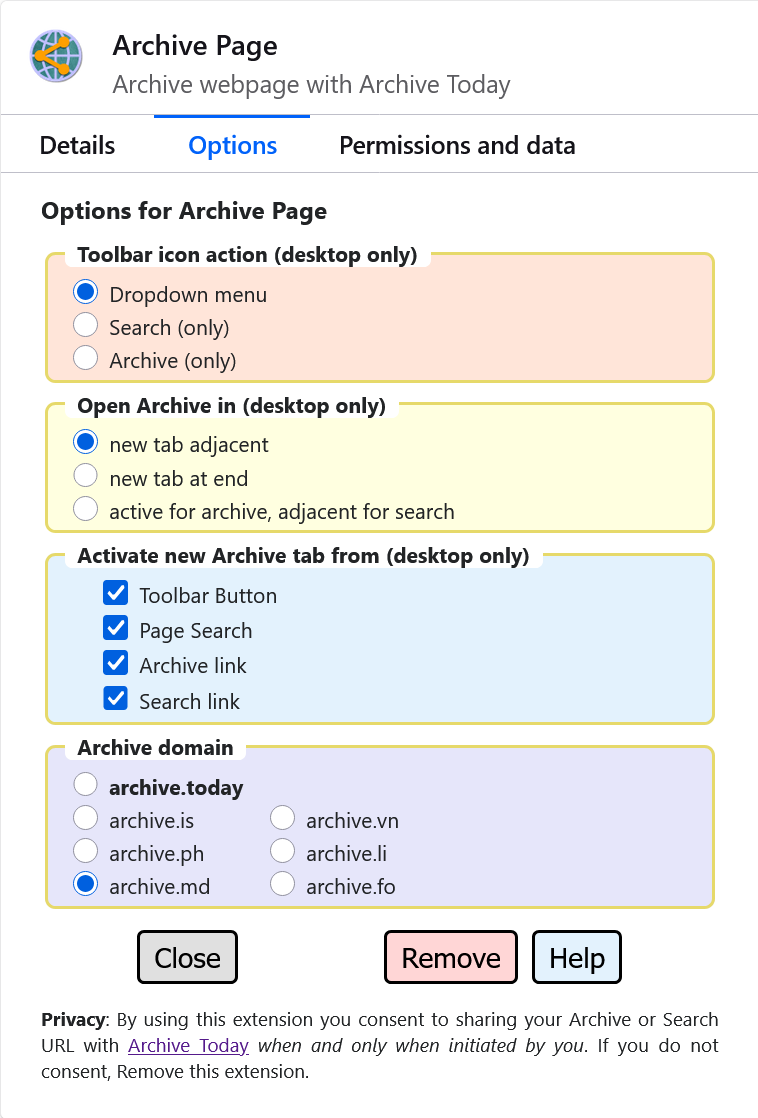
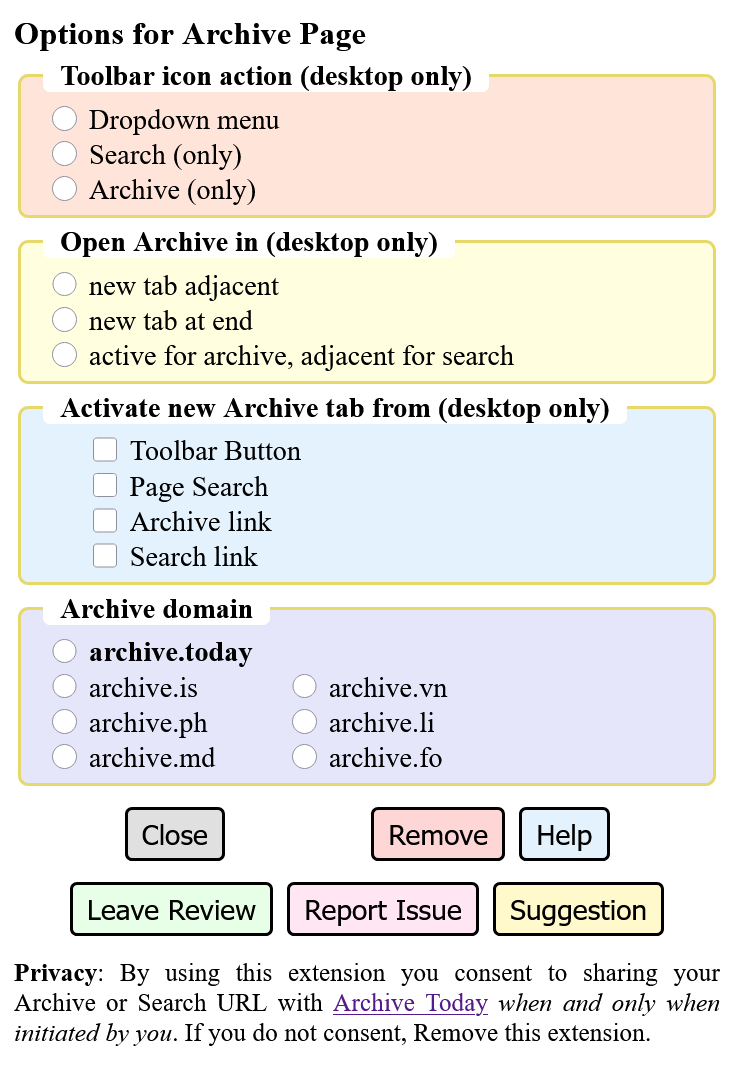
v1.6.3 (Firefox)
Improve options screen

diff --git a/Firefox/options.js b/Firefox/options.js
@@ -1,7 +1,7 @@
 /*
-    options.js - Archive Page Extension Options Logic
-    Handles auto-saving, default values, and tab management.
-    © 2026 John Navas, All Rights Reserved
+  options.js - Archive Page Extension Options Logic
+  Handles auto-saving, default values, and tab management.
+  © 2026 John Navas, All Rights Reserved
 */
 
 const browserAPI = (typeof browser !== "undefined") ? browser : chrome;
@@ -30,10 +30,8 @@ async function restoreOptions() {
     cbArchiveNew: true,
     cbSearchNew: true
   });
-
   const info = await browserAPI.runtime.getPlatformInfo();
   const isAndroid = info.os === "android";
-
   if (isAndroid) {
     ['sectionToolbarAction', 'sectionOpenIn', 'sectionActivate'].forEach(id => {
       const s = document.getElementById(id);
@@ -43,20 +41,17 @@ async function restoreOptions() {
       }
     });
   }
-
   // Restore Checkboxes
   MAP.cb.forEach(c => {
     const e = document.getElementById(c.i);
     if (e) e.checked = items[c.k];
   });
-
   // Restore Radio Buttons
   MAP.rd.forEach(r => {
     if (isAndroid && r.k === 'toolbarAction') return;
     const e = document.querySelector(`input[name="${r.n}"][value="${items[r.k]}"]`);
     if (e) e.checked = true;
   });
-
   // Restore Tab Control
   const tId = Object.keys(MAP.tab).find(k => MAP.tab[k] === items.tabCtl);
   if (tId) document.getElementById(tId).checked = true;
@@ -68,7 +63,6 @@ async function saveOptions() {
   MAP.rd.forEach(r => { const e = document.querySelector(`input[name="${r.n}"]:checked`); if (e && !e.disabled) s[r.k] = e.value; });
   const t = document.querySelector('input[name="tabCtl"]:checked');
   if (t && !t.disabled) s.tabCtl = MAP.tab[t.id] || 'adjacent';
-
   await browserAPI.storage.local.set(s);
   const st = document.getElementById('status');
   st.textContent = 'Saved';
@@ -78,22 +72,53 @@ async function saveOptions() {
 document.addEventListener('DOMContentLoaded', async () => {
   await restoreOptions();
 
+  // Platform Detection for Buttons
+  const info = await browserAPI.runtime.getPlatformInfo();
+  const isAndroid = info.os === "android";
+
+  function openUrlFirefox(url) {
+    if (isAndroid) {
+      window.open(url, "_blank");
+    } else {
+      browserAPI.tabs.create({ url });
+    }
+  }
+
+  function closeWindowFirefox() {
+    if (isAndroid) {
+      window.close();
+    } else {
+      browserAPI.tabs.getCurrent(tab => {
+        if (tab) browserAPI.tabs.remove(tab.id);
+        else window.close();
+      });
+    }
+  }
+
   document.querySelectorAll('input').forEach(input => {
     input.addEventListener('change', saveOptions);
   });
 
-  document.getElementById('bClose').addEventListener('click', () => {
-    browserAPI.tabs.getCurrent(tab => {
-      if (tab) browserAPI.tabs.remove(tab.id);
-      else window.close();
-    });
-  });
+  // Action Buttons
+  document.getElementById('bClose').addEventListener('click', closeWindowFirefox);
 
   document.getElementById('bRemove').addEventListener('click', () => {
     browserAPI.management.uninstallSelf({ showConfirmDialog: true });
   });
 
   document.getElementById('bHelp').addEventListener('click', () =>
-    browserAPI.tabs.create({ url: "https://github.com/JNavas2/Archive-Page" })
+    openUrlFirefox("https://github.com/JNavas2/Archive-Page")
+  );
+
+  document.getElementById('bReview').addEventListener('click', () =>
+    openUrlFirefox("https://addons.mozilla.org/en-US/firefox/addon/archive-page/")
+  );
+
+  document.getElementById('bIssue').addEventListener('click', () =>
+    openUrlFirefox("https://github.com/JNavas2/Archive-Page/issues")
+  );
+
+  document.getElementById('bSuggest').addEventListener('click', () =>
+    openUrlFirefox("https://github.com/JNavas2/Archive-Page/discussions")
   );
 });

diff --git a/Firefox/welcome.js b/Firefox/welcome.js
@@ -6,37 +6,52 @@
 
 const browserAPI = (typeof browser !== "undefined") ? browser : chrome;
 
-document.addEventListener('DOMContentLoaded', () => {
+document.addEventListener('DOMContentLoaded', async () => {
 
-    // 1. Options: Opens the extension Options page
+    // Platform Detection for Buttons
+    const info = await browserAPI.runtime.getPlatformInfo();
+    const isAndroid = info.os === "android";
+
+    function openUrlFirefox(url) {
+        if (isAndroid) {
+            window.open(url, "_blank");
+        } else {
+            browserAPI.tabs.create({ url });
+        }
+    }
+
+    function closeWindowFirefox() {
+        if (isAndroid) {
+            window.close();
+        } else {
+            browserAPI.tabs.getCurrent(tab => {
+                if (tab) browserAPI.tabs.remove(tab.id);
+                else window.close();
+            });
+        }
+    }
+
+    // 1. Options
     document.getElementById('bOptions').addEventListener('click', () => {
-        try {
-            browserAPI.runtime.openOptionsPage();
-        } catch (e) {
-            browserAPI.tabs.create({ url: browserAPI.runtime.getURL("options.html") });
+        if (isAndroid) {
+            openUrlFirefox(browserAPI.runtime.getURL("options.html"));
+        } else {
+            browserAPI.runtime.openOptionsPage().catch(() => {
+                openUrlFirefox(browserAPI.runtime.getURL("options.html"));
+            });
         }
     });
 
-    // 2. Close: Closes the current Welcome tab with Android fallback
-    document.getElementById('bClose').addEventListener('click', () => {
-        browserAPI.tabs.getCurrent(tab => {
-            if (tab) {
-                browserAPI.tabs.remove(tab.id);
-            } else {
-                window.close(); // Logic fallback for mobile/Android
-            }
-        });
-    });
+    // 2. Close
+    document.getElementById('bClose').addEventListener('click', closeWindowFirefox);
 
-    // 3. Remove: Triggers native Firefox uninstallation
+    // 3. Remove
     document.getElementById('bRemove').addEventListener('click', () => {
         browserAPI.management.uninstallSelf({ showConfirmDialog: true });
     });
 
-    // 4. Help: Opens the GitHub extension home page
+    // 4. Help
     document.getElementById('bHelp').addEventListener('click', () => {
-        browserAPI.tabs.create({
-            url: "https://github.com/JNavas2/Archive-Page"
-        });
+        openUrlFirefox("https://github.com/JNavas2/Archive-Page");
     });
 });

diff --git a/Firefox/options.html b/Firefox/options.html
@@ -21,6 +21,9 @@
             --bg-remove: #FFD6D6;
             --border-fieldset: #e6d96a;
             --border-button: #000;
+            --soft-green: #e6ffe6;
+            --soft-pink: #ffe6f2;
+            --soft-yellow: #fff9cc;
         }
 
         body {
@@ -104,6 +107,18 @@
             background-color: var(--bg-activate);
         }
 
+        #bReview {
+            background-color: var(--soft-green);
+        }
+
+        #bIssue {
+            background-color: var(--soft-pink);
+        }
+
+        #bSuggest {
+            background-color: var(--soft-yellow);
+        }
+
         #status {
             font-size: medium;
             width: 75px;
@@ -138,7 +153,6 @@
 
 <body>
     <h1>Options for Archive Page</h1>
-
     <fieldset id="sectionToolbarAction">
         <legend>Toolbar icon action (desktop only)</legend>
         <input type="radio" id="actionMenu" name="toolbarAction" value="menu">
@@ -148,7 +162,6 @@
         <input type="radio" id="actionArchive" name="toolbarAction" value="archive">
         <label for="actionArchive">Archive (only)</label>
     </fieldset>
-
     <fieldset id="sectionOpenIn">
         <legend>Open Archive in (desktop only)</legend>
         <input type="radio" id="tabAdj" name="tabCtl" value="adjacent">
@@ -158,7 +171,6 @@
         <input type="radio" id="tabAct" name="tabCtl" value="active">
         <label for="tabAct">active for archive, adjacent for search</label>
     </fieldset>
-
     <fieldset id="sectionActivate">
         <legend>Activate new Archive tab from (desktop only)</legend>
         <div style="margin-left: 1.5em;">
@@ -168,22 +180,18 @@
             <label><input id="cbSearchNew" type="checkbox"> Search link</label>
         </div>
     </fieldset>
-
     <fieldset class="section-domain">
         <legend>Archive domain</legend>
-
         <label>
             <input type="radio" name="archiveTld" value="today" id="tldToday">
             <strong>archive.today</strong>
         </label>
-
         <div class="archive-domain-columns">
             <div class="archive-domain-col">
                 <label><input type="radio" name="archiveTld" value="is"> archive.is</label>
                 <label><input type="radio" name="archiveTld" value="ph"> archive.ph</label>
                 <label><input type="radio" name="archiveTld" value="md"> archive.md</label>
             </div>
-
             <div class="archive-domain-col">
                 <label><input type="radio" name="archiveTld" value="vn"> archive.vn</label>
                 <label><input type="radio" name="archiveTld" value="li"> archive.li</label>
@@ -191,20 +199,24 @@
             </div>
         </div>
     </fieldset>
-
     <div class="responsive-flex">
         <button id="bClose" type="button">Close</button> <span id="status">&nbsp;</span>
         <button id="bRemove" type="button">Remove</button>
         <span style="display: inline-block; width: 8px;"></span>
         <button id="bHelp" type="button">Help</button>
     </div>
-
+    <div class="responsive-flex" id="feedbackRow">
+        <button id="bReview" type="button">Leave Review</button>
+        <span style="display: inline-block; width: 8px;"></span>
+        <button id="bIssue" type="button">Report Issue</button>
+        <span style="display: inline-block; width: 8px;"></span>
+        <button id="bSuggest" type="button">Suggestion</button>
+    </div>
     <p style="margin-top: 12px; margin-bottom: 8px; text-align: justify; font-size: 0.9em;">
         <strong>Privacy</strong>: By using this extension you consent to sharing your Archive or Search URL with
         <a href="https://archive.today/">Archive Today</a> <i>when and only when initiated by you</i>.
         If you do not consent, Remove this extension.
     </p>
-
     <script src="options.js"></script>
 </body>
 

diff --git a/Firefox/welcome.html b/Firefox/welcome.html
@@ -168,8 +168,8 @@
         <p><strong>Pin extension icon to your browser toolbar for easy access.</strong></p>
 
         <div class="divider">
-            <h2>What's New in 1.5.2</h2>
-            <h3>🪲Fix possible race issue in Android menu.</h3>
+            <h2>What's New</h2>
+            <h3>✅ Improve Options screen.</h3>
             <h3>Important Notes</h3>
             <ol class="tight-list">
                 <li><strong>Search context menu</strong> now only in Archive (only) option.</li>